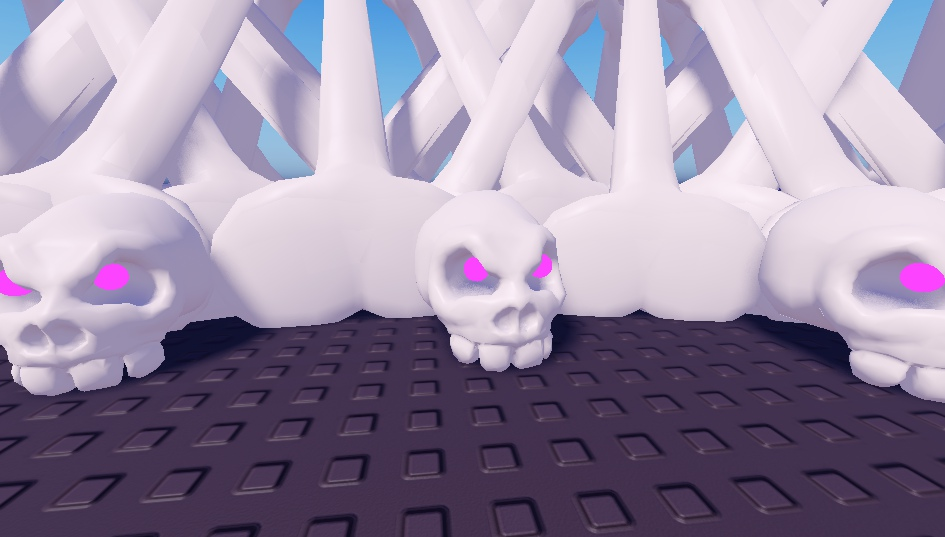
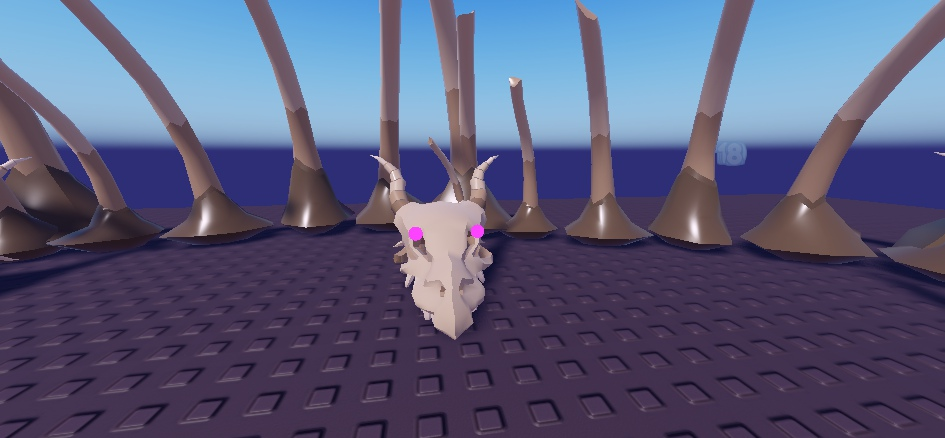
Croquis projet roblox 1

diff --git a/projet-roblox-1/index.html b/projet-roblox-1/index.html
@@ -1,34 +1,31 @@
-<title>Modèles d'os</title>
+<title>Murs d'arène en jeu</title>
 <meta name="claude:viewport-fit-sides" content="cover">
 <style>
-  :root { --bg: #eef1f8; --panel: #ffffff; --fg: #1d2236; --muted: #5b6380; --line: #d7dcec; --accent: #c0392b; }
-  @media (prefers-color-scheme: dark) { :root:not([data-theme="light"]) { --bg: #12152a; --panel: #1b1f3a; --fg: #eef0ff; --muted: #a3a9c9; --line: #2d3358; --accent: #ff7b77; color-scheme: dark } }
-  :root[data-theme="dark"] { --bg: #12152a; --panel: #1b1f3a; --fg: #eef0ff; --muted: #a3a9c9; --line: #2d3358; --accent: #ff7b77; color-scheme: dark }
+  :root { --bg: #eef1f8; --panel: #ffffff; --fg: #1d2236; --muted: #5b6380; --line: #d7dcec; }
+  @media (prefers-color-scheme: dark) { :root:not([data-theme="light"]) { --bg: #12152a; --panel: #1b1f3a; --fg: #eef0ff; --muted: #a3a9c9; --line: #2d3358; color-scheme: dark } }
+  :root[data-theme="dark"] { --bg: #12152a; --panel: #1b1f3a; --fg: #eef0ff; --muted: #a3a9c9; --line: #2d3358; color-scheme: dark }
   body { background: var(--bg); color: var(--fg); font-family: "Nunito", system-ui, sans-serif; font-size: 15px; line-height: 1.55;
     padding-left: max(16px, env(safe-area-inset-left, 0px)); padding-right: max(16px, env(safe-area-inset-right, 0px)); padding-block: 24px 40px; }
   .wrap { max-width: 1100px; margin: 0 auto; display: grid; gap: 16px; }
   h1 { margin: 0; font-size: 28px; text-wrap: balance; }
-  p { margin: 0; color: var(--muted); max-width: 78ch; }
+  p { margin: 0; color: var(--muted); max-width: 75ch; }
   .grid { display: grid; grid-template-columns: repeat(2, minmax(0, 1fr)); gap: 14px; }
   @media (max-width: 700px) { .grid { grid-template-columns: 1fr; } }
-  figure { margin: 0; display: grid; gap: 6px; background: var(--panel); border: 1px solid var(--line); border-radius: 12px; padding: 10px; align-content: start; }
+  figure { margin: 0; display: grid; gap: 6px; background: var(--panel); border: 1px solid var(--line); border-radius: 12px; padding: 10px; }
   img { width: 100%; border-radius: 8px; display: block; }
   figcaption { font-size: 14px; color: var(--muted); }
   figcaption b { color: var(--fg); }
-  .rec { border: 2px solid var(--accent); padding: 14px; border-radius: 12px; background: var(--panel); }
 </style>
 <div class="wrap">
-  <h1>Modèles d'os</h1>
-  <p>D'autres os gratuits de la boutique Roblox pour le mur du Bois des Ombres. Les n°1 à 8 viennent du pack « Synty Dungeon : squelettes et os », publié par Roblox lui-même (style soigné, tous assortis). Chaque capture est centrée sur le numéro écrit au milieu en haut ; les autres numéros sont les voisins.</p>
+  <h1>Murs d'arène en jeu</h1>
+  <p>Version 2 (21/10) : de vrais modèles 3D du Creator Store, choisis sur la page de choix. Captures dans Studio, vues depuis l'intérieur de l'arène, en plein jour. Les particules (flammes fantômes, brume, braises, givre) et les lueurs n'apparaissent qu'en jeu.</p>
   <div class="grid">
-    <figure><img src="o2.jpg" alt="1 et 2"><figcaption><b>1</b> : une grande côte (ou défense) plantée dans un socle de roche. <b>2</b> : une rangée de côtes de géant qui sortent du sol, comme un squelette enterré.</figcaption></figure>
-    <figure><img src="o3.jpg" alt="3"><figcaption><b>3</b> : cage thoracique de bête géante (colonne + côtes).</figcaption></figure>
-    <figure><img src="o4.jpg" alt="4"><figcaption><b>4</b> : crâne de bête à cornes, posé au sol.</figcaption></figure>
-    <figure><img src="o5.jpg" alt="5"><figcaption><b>5</b> : corne d'os dressée.</figcaption></figure>
-    <figure><img src="o8.jpg" alt="8"><figcaption><b>8</b> : longue colonne vertébrale.</figcaption></figure>
-    <figure><img src="o10.jpg" alt="10"><figcaption><b>10</b> : cage thoracique humaine réaliste, rouge sombre (un peu gore).</figcaption></figure>
-    <figure><img src="o12.jpg" alt="12"><figcaption><b>12</b> : os de dragon éparpillés au sol.</figcaption></figure>
-    <figure><img src="o14.jpg" alt="14"><figcaption><b>14</b> : torse de squelette (côtes).</figcaption></figure>
+    <figure><img src="potager.jpg" alt="Mur du Potager"><figcaption><b>Potager aux Citrouilles</b> : pieux tordus, ronces à épines, vraies citrouilles-lanternes.</figcaption></figure>
+    <figure><img src="grotte.jpg" alt="Mur de la Grotte"><figcaption><b>Grotte des Fantômes</b> : grappes de cristaux violets, petits quartz devant.</figcaption></figure>
+    <figure><img src="glaces.jpg" alt="Mur des Glaces"><figcaption><b>Royaume des Glaces</b> : blocs d'iceberg transparents, pics de glace.</figcaption></figure>
+    <figure><img src="ombres.jpg" alt="Mur du Bois des Ombres"><figcaption><b>Bois des Ombres</b> (v3, pack Synty) : squelette de géant enterré, rangées de côtes, grandes côtes, crânes de bête à cornes.</figcaption></figure>
+    <figure><img src="cranes.jpg" alt="Crânes aux yeux mauves"><figcaption><b>Bois des Ombres, de près</b> : crâne de bête à cornes, yeux mauves dans les orbites.</figcaption></figure>
+    <figure><img src="volcan.jpg" alt="Mur du Volcan"><figcaption><b>Volcan</b> : pointes de roche à lave rouge et gros rochers noirs, ligne de lave au pied.</figcaption></figure>
+    <figure><img src="celeste.jpg" alt="Mur du Royaume Céleste"><figcaption><b>Royaume Céleste</b> : mur de nuages moelleux, colonnes de marbre blanc.</figcaption></figure>
   </div>
-  <div class="rec"><b>Mon conseil :</b> la rangée de côtes <b>2</b> comme mur principal, quelques grandes côtes <b>1</b> entre elles, et les crânes à cornes <b>4</b> au pied (avec les yeux mauves). C'est moins chargé que les cages actuelles et ça fait « squelette de géant enterré ».</div>
 </div>
